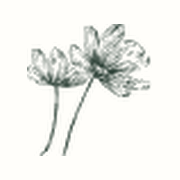
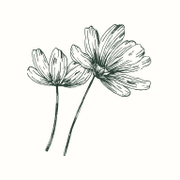
refactor: update flower image

Changed region(s): [[0.1389, 0.1111, 0.8611, 0.8889]]

diff --git a/src/components/brand.tsx b/src/components/brand.tsx
@@ -26,7 +26,7 @@ export function Logo({ tone = "light", variant = "header" }: LogoProps) {
   );
 }
 
-// Flor recortada do logo da cliente (55×58), em verde. Cresce de baixo para cima ao aparecer.
+// Flor do logo da cliente (arquivo próprio, 133×140), em verde. Cresce de baixo para cima ao aparecer.
 export function Flower() {
   return (
     <span data-reveal="bloom" className="block h-[40px] w-[38px]">
